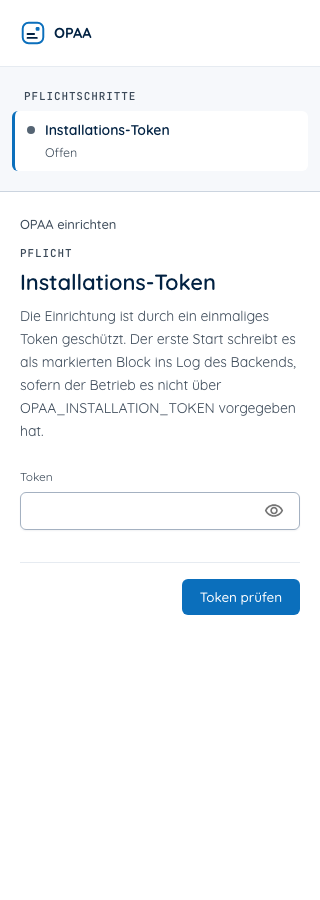
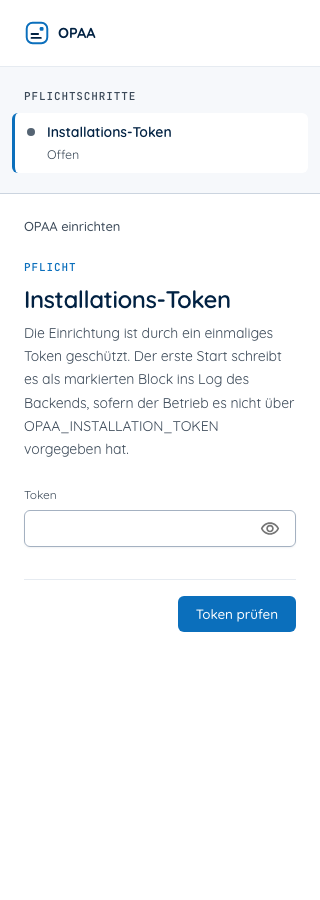
docs(installation): Screenshots aller Schritte zu #3234 (nur für den PR, nicht mergen)

diff --git a/README.md b/README.md
@@ -1,0 +1,135 @@
+# Screenshots zu #3234
+
+Vorher (`origin/main` 8cc06b2fd) und nachher (Branch `feature/3234_token-seite-ausrichtung`), Vite-Dev-Server mit Mocks, Playwright. Nur für den PR, wird nicht gemergt.
+
+## Installations-Token
+
+| Breite, Schema | Vorher | Nachher |
+| --- | --- | --- |
+| 320 px, hell | <img src="vorher/01-token-320-light.png" width="360"> | <img src="nachher/01-token-320-light.png" width="360"> |
+| 320 px, dunkel | <img src="vorher/01-token-320-dark.png" width="360"> | <img src="nachher/01-token-320-dark.png" width="360"> |
+| 768 px, hell | <img src="vorher/01-token-768-light.png" width="360"> | <img src="nachher/01-token-768-light.png" width="360"> |
+| 768 px, dunkel | <img src="vorher/01-token-768-dark.png" width="360"> | <img src="nachher/01-token-768-dark.png" width="360"> |
+| 1440 px, hell | <img src="vorher/01-token-1440-light.png" width="360"> | <img src="nachher/01-token-1440-light.png" width="360"> |
+| 1440 px, dunkel | <img src="vorher/01-token-1440-dark.png" width="360"> | <img src="nachher/01-token-1440-dark.png" width="360"> |
+
+## Installations-Token, Fehler
+
+| Breite, Schema | Vorher | Nachher |
+| --- | --- | --- |
+| 320 px, hell | <img src="vorher/01b-token-fehler-320-light.png" width="360"> | <img src="nachher/01b-token-fehler-320-light.png" width="360"> |
+| 320 px, dunkel | <img src="vorher/01b-token-fehler-320-dark.png" width="360"> | <img src="nachher/01b-token-fehler-320-dark.png" width="360"> |
+| 768 px, hell | <img src="vorher/01b-token-fehler-768-light.png" width="360"> | <img src="nachher/01b-token-fehler-768-light.png" width="360"> |
+| 768 px, dunkel | <img src="vorher/01b-token-fehler-768-dark.png" width="360"> | <img src="nachher/01b-token-fehler-768-dark.png" width="360"> |
+| 1440 px, hell | <img src="vorher/01b-token-fehler-1440-light.png" width="360"> | <img src="nachher/01b-token-fehler-1440-light.png" width="360"> |
+| 1440 px, dunkel | <img src="vorher/01b-token-fehler-1440-dark.png" width="360"> | <img src="nachher/01b-token-fehler-1440-dark.png" width="360"> |
+
+## Erstes Konto
+
+| Breite, Schema | Vorher | Nachher |
+| --- | --- | --- |
+| 320 px, hell | <img src="vorher/02-erstes-konto-320-light.png" width="360"> | <img src="nachher/02-erstes-konto-320-light.png" width="360"> |
+| 320 px, dunkel | <img src="vorher/02-erstes-konto-320-dark.png" width="360"> | <img src="nachher/02-erstes-konto-320-dark.png" width="360"> |
+| 768 px, hell | <img src="vorher/02-erstes-konto-768-light.png" width="360"> | <img src="nachher/02-erstes-konto-768-light.png" width="360"> |
+| 768 px, dunkel | <img src="vorher/02-erstes-konto-768-dark.png" width="360"> | <img src="nachher/02-erstes-konto-768-dark.png" width="360"> |
+| 1440 px, hell | <img src="vorher/02-erstes-konto-1440-light.png" width="360"> | <img src="nachher/02-erstes-konto-1440-light.png" width="360"> |
+| 1440 px, dunkel | <img src="vorher/02-erstes-konto-1440-dark.png" width="360"> | <img src="nachher/02-erstes-konto-1440-dark.png" width="360"> |
+
+## Erstes Konto, Feldfehler
+
+| Breite, Schema | Vorher | Nachher |
+| --- | --- | --- |
+| 320 px, hell | <img src="vorher/02b-erstes-konto-fehler-320-light.png" width="360"> | <img src="nachher/02b-erstes-konto-fehler-320-light.png" width="360"> |
+| 320 px, dunkel | <img src="vorher/02b-erstes-konto-fehler-320-dark.png" width="360"> | <img src="nachher/02b-erstes-konto-fehler-320-dark.png" width="360"> |
+| 768 px, hell | <img src="vorher/02b-erstes-konto-fehler-768-light.png" width="360"> | <img src="nachher/02b-erstes-konto-fehler-768-light.png" width="360"> |
+| 768 px, dunkel | <img src="vorher/02b-erstes-konto-fehler-768-dark.png" width="360"> | <img src="nachher/02b-erstes-konto-fehler-768-dark.png" width="360"> |
+| 1440 px, hell | <img src="vorher/02b-erstes-konto-fehler-1440-light.png" width="360"> | <img src="nachher/02b-erstes-konto-fehler-1440-light.png" width="360"> |
+| 1440 px, dunkel | <img src="vorher/02b-erstes-konto-fehler-1440-dark.png" width="360"> | <img src="nachher/02b-erstes-konto-fehler-1440-dark.png" width="360"> |
+
+## Anmeldeverfahren
+
+| Breite, Schema | Vorher | Nachher |
+| --- | --- | --- |
+| 320 px, hell | <img src="vorher/03-anmeldeverfahren-320-light.png" width="360"> | <img src="nachher/03-anmeldeverfahren-320-light.png" width="360"> |
+| 320 px, dunkel | <img src="vorher/03-anmeldeverfahren-320-dark.png" width="360"> | <img src="nachher/03-anmeldeverfahren-320-dark.png" width="360"> |
+| 768 px, hell | <img src="vorher/03-anmeldeverfahren-768-light.png" width="360"> | <img src="nachher/03-anmeldeverfahren-768-light.png" width="360"> |
+| 768 px, dunkel | <img src="vorher/03-anmeldeverfahren-768-dark.png" width="360"> | <img src="nachher/03-anmeldeverfahren-768-dark.png" width="360"> |
+| 1440 px, hell | <img src="vorher/03-anmeldeverfahren-1440-light.png" width="360"> | <img src="nachher/03-anmeldeverfahren-1440-light.png" width="360"> |
+| 1440 px, dunkel | <img src="vorher/03-anmeldeverfahren-1440-dark.png" width="360"> | <img src="nachher/03-anmeldeverfahren-1440-dark.png" width="360"> |
+
+## Anmeldeverfahren mit OIDC-Feldern
+
+| Breite, Schema | Vorher | Nachher |
+| --- | --- | --- |
+| 320 px, hell | <img src="vorher/03b-anmeldeverfahren-oidc-320-light.png" width="360"> | <img src="nachher/03b-anmeldeverfahren-oidc-320-light.png" width="360"> |
+| 320 px, dunkel | <img src="vorher/03b-anmeldeverfahren-oidc-320-dark.png" width="360"> | <img src="nachher/03b-anmeldeverfahren-oidc-320-dark.png" width="360"> |
+| 768 px, hell | <img src="vorher/03b-anmeldeverfahren-oidc-768-light.png" width="360"> | <img src="nachher/03b-anmeldeverfahren-oidc-768-light.png" width="360"> |
+| 768 px, dunkel | <img src="vorher/03b-anmeldeverfahren-oidc-768-dark.png" width="360"> | <img src="nachher/03b-anmeldeverfahren-oidc-768-dark.png" width="360"> |
+| 1440 px, hell | <img src="vorher/03b-anmeldeverfahren-oidc-1440-light.png" width="360"> | <img src="nachher/03b-anmeldeverfahren-oidc-1440-light.png" width="360"> |
+| 1440 px, dunkel | <img src="vorher/03b-anmeldeverfahren-oidc-1440-dark.png" width="360"> | <img src="nachher/03b-anmeldeverfahren-oidc-1440-dark.png" width="360"> |
+
+## Chat-Modell
+
+| Breite, Schema | Vorher | Nachher |
+| --- | --- | --- |
+| 320 px, hell | <img src="vorher/04-chat-modell-320-light.png" width="360"> | <img src="nachher/04-chat-modell-320-light.png" width="360"> |
+| 320 px, dunkel | <img src="vorher/04-chat-modell-320-dark.png" width="360"> | <img src="nachher/04-chat-modell-320-dark.png" width="360"> |
+| 768 px, hell | <img src="vorher/04-chat-modell-768-light.png" width="360"> | <img src="nachher/04-chat-modell-768-light.png" width="360"> |
+| 768 px, dunkel | <img src="vorher/04-chat-modell-768-dark.png" width="360"> | <img src="nachher/04-chat-modell-768-dark.png" width="360"> |
+| 1440 px, hell | <img src="vorher/04-chat-modell-1440-light.png" width="360"> | <img src="nachher/04-chat-modell-1440-light.png" width="360"> |
+| 1440 px, dunkel | <img src="vorher/04-chat-modell-1440-dark.png" width="360"> | <img src="nachher/04-chat-modell-1440-dark.png" width="360"> |
+
+## Chat-Modell, Schlüssel gespeichert
+
+| Breite, Schema | Vorher | Nachher |
+| --- | --- | --- |
+| 320 px, hell | <img src="vorher/04b-chat-modell-gespeichert-320-light.png" width="360"> | <img src="nachher/04b-chat-modell-gespeichert-320-light.png" width="360"> |
+| 320 px, dunkel | <img src="vorher/04b-chat-modell-gespeichert-320-dark.png" width="360"> | <img src="nachher/04b-chat-modell-gespeichert-320-dark.png" width="360"> |
+| 768 px, hell | <img src="vorher/04b-chat-modell-gespeichert-768-light.png" width="360"> | <img src="nachher/04b-chat-modell-gespeichert-768-light.png" width="360"> |
+| 768 px, dunkel | <img src="vorher/04b-chat-modell-gespeichert-768-dark.png" width="360"> | <img src="nachher/04b-chat-modell-gespeichert-768-dark.png" width="360"> |
+| 1440 px, hell | <img src="vorher/04b-chat-modell-gespeichert-1440-light.png" width="360"> | <img src="nachher/04b-chat-modell-gespeichert-1440-light.png" width="360"> |
+| 1440 px, dunkel | <img src="vorher/04b-chat-modell-gespeichert-1440-dark.png" width="360"> | <img src="nachher/04b-chat-modell-gespeichert-1440-dark.png" width="360"> |
+
+## Embedding-Modell
+
+| Breite, Schema | Vorher | Nachher |
+| --- | --- | --- |
+| 320 px, hell | <img src="vorher/05-embedding-modell-320-light.png" width="360"> | <img src="nachher/05-embedding-modell-320-light.png" width="360"> |
+| 320 px, dunkel | <img src="vorher/05-embedding-modell-320-dark.png" width="360"> | <img src="nachher/05-embedding-modell-320-dark.png" width="360"> |
+| 768 px, hell | <img src="vorher/05-embedding-modell-768-light.png" width="360"> | <img src="nachher/05-embedding-modell-768-light.png" width="360"> |
+| 768 px, dunkel | <img src="vorher/05-embedding-modell-768-dark.png" width="360"> | <img src="nachher/05-embedding-modell-768-dark.png" width="360"> |
+| 1440 px, hell | <img src="vorher/05-embedding-modell-1440-light.png" width="360"> | <img src="nachher/05-embedding-modell-1440-light.png" width="360"> |
+| 1440 px, dunkel | <img src="vorher/05-embedding-modell-1440-dark.png" width="360"> | <img src="nachher/05-embedding-modell-1440-dark.png" width="360"> |
+
+## Embedding-Modell, geprüft
+
+| Breite, Schema | Vorher | Nachher |
+| --- | --- | --- |
+| 320 px, hell | <img src="vorher/05b-embedding-modell-geprueft-320-light.png" width="360"> | <img src="nachher/05b-embedding-modell-geprueft-320-light.png" width="360"> |
+| 320 px, dunkel | <img src="vorher/05b-embedding-modell-geprueft-320-dark.png" width="360"> | <img src="nachher/05b-embedding-modell-geprueft-320-dark.png" width="360"> |
+| 768 px, hell | <img src="vorher/05b-embedding-modell-geprueft-768-light.png" width="360"> | <img src="nachher/05b-embedding-modell-geprueft-768-light.png" width="360"> |
+| 768 px, dunkel | <img src="vorher/05b-embedding-modell-geprueft-768-dark.png" width="360"> | <img src="nachher/05b-embedding-modell-geprueft-768-dark.png" width="360"> |
+| 1440 px, hell | <img src="vorher/05b-embedding-modell-geprueft-1440-light.png" width="360"> | <img src="nachher/05b-embedding-modell-geprueft-1440-light.png" width="360"> |
+| 1440 px, dunkel | <img src="vorher/05b-embedding-modell-geprueft-1440-dark.png" width="360"> | <img src="nachher/05b-embedding-modell-geprueft-1440-dark.png" width="360"> |
+
+## Abschluss
+
+| Breite, Schema | Vorher | Nachher |
+| --- | --- | --- |
+| 320 px, hell | <img src="vorher/06-abschluss-320-light.png" width="360"> | <img src="nachher/06-abschluss-320-light.png" width="360"> |
+| 320 px, dunkel | <img src="vorher/06-abschluss-320-dark.png" width="360"> | <img src="nachher/06-abschluss-320-dark.png" width="360"> |
+| 768 px, hell | <img src="vorher/06-abschluss-768-light.png" width="360"> | <img src="nachher/06-abschluss-768-light.png" width="360"> |
+| 768 px, dunkel | <img src="vorher/06-abschluss-768-dark.png" width="360"> | <img src="nachher/06-abschluss-768-dark.png" width="360"> |
+| 1440 px, hell | <img src="vorher/06-abschluss-1440-light.png" width="360"> | <img src="nachher/06-abschluss-1440-light.png" width="360"> |
+| 1440 px, dunkel | <img src="vorher/06-abschluss-1440-dark.png" width="360"> | <img src="nachher/06-abschluss-1440-dark.png" width="360"> |
+
+## Installation abgeschlossen
+
+| Breite, Schema | Vorher | Nachher |
+| --- | --- | --- |
+| 320 px, hell | <img src="vorher/07-abgeschlossen-320-light.png" width="360"> | <img src="nachher/07-abgeschlossen-320-light.png" width="360"> |
+| 320 px, dunkel | <img src="vorher/07-abgeschlossen-320-dark.png" width="360"> | <img src="nachher/07-abgeschlossen-320-dark.png" width="360"> |
+| 768 px, hell | <img src="vorher/07-abgeschlossen-768-light.png" width="360"> | <img src="nachher/07-abgeschlossen-768-light.png" width="360"> |
+| 768 px, dunkel | <img src="vorher/07-abgeschlossen-768-dark.png" width="360"> | <img src="nachher/07-abgeschlossen-768-dark.png" width="360"> |
+| 1440 px, hell | <img src="vorher/07-abgeschlossen-1440-light.png" width="360"> | <img src="nachher/07-abgeschlossen-1440-light.png" width="360"> |
+| 1440 px, dunkel | <img src="vorher/07-abgeschlossen-1440-dark.png" width="360"> | <img src="nachher/07-abgeschlossen-1440-dark.png" width="360"> |
